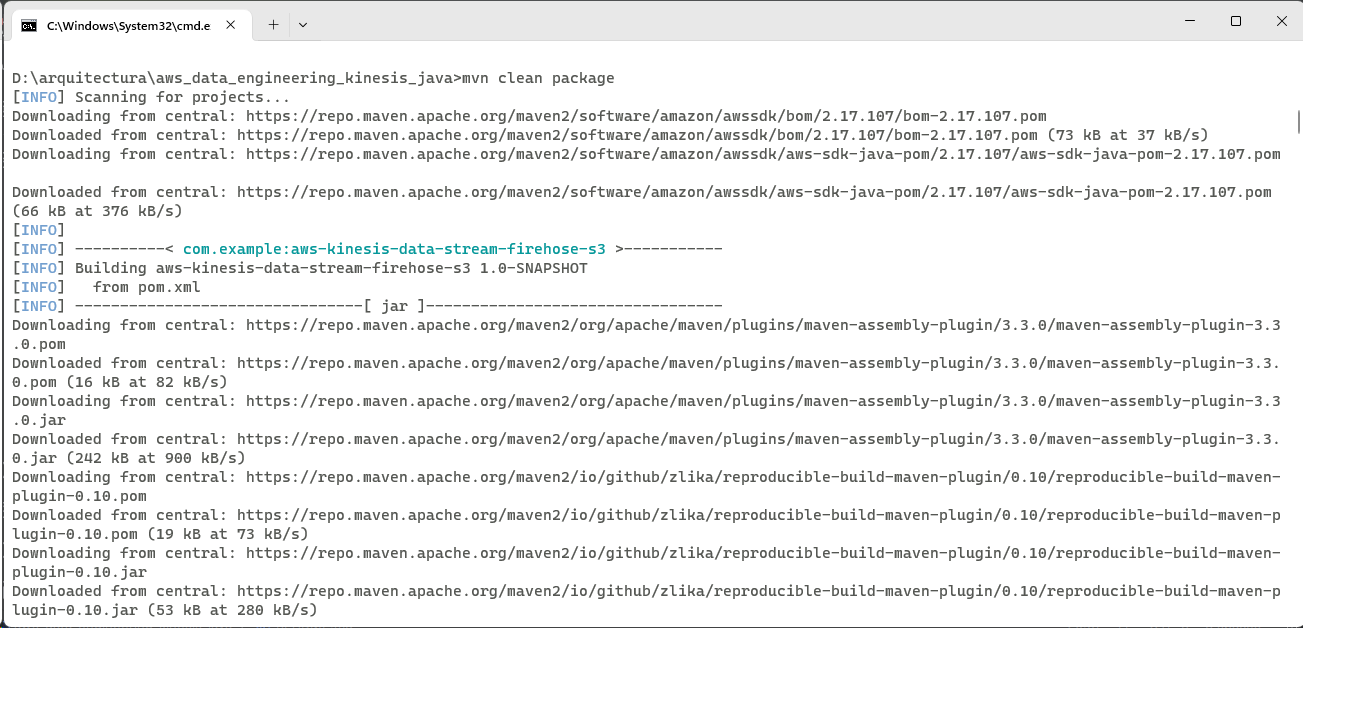
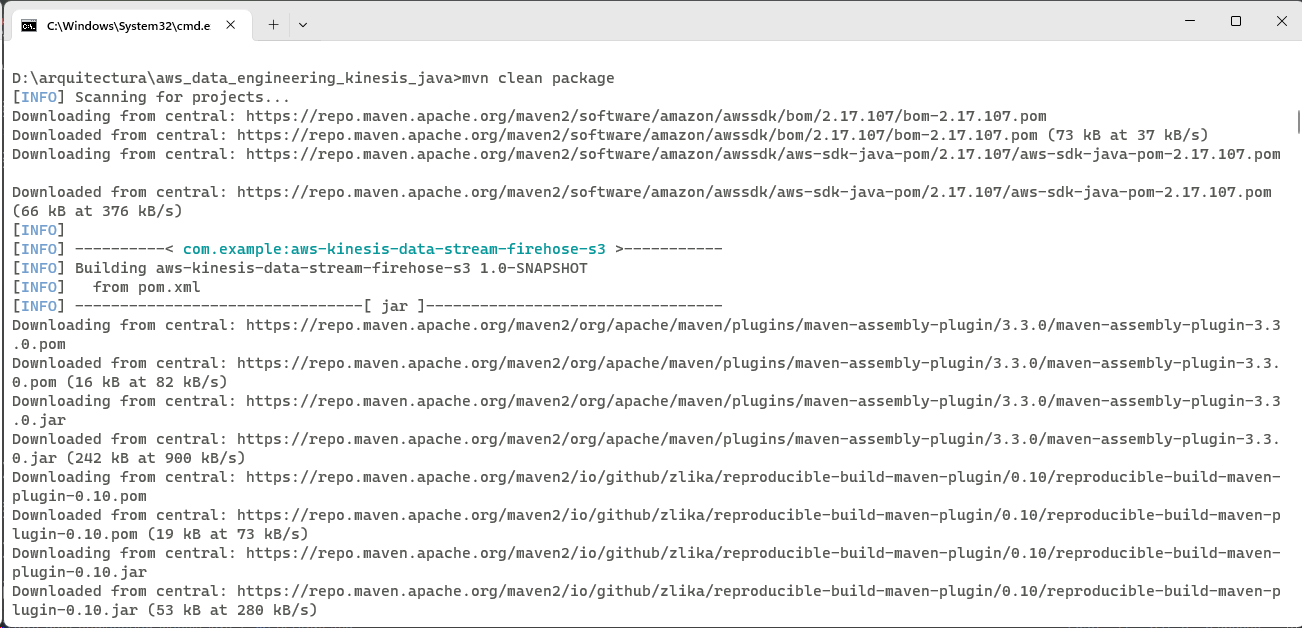
Data Engineering

Changed region(s): [[0.0, 0.0908, 1.0, 1.0], [0.0, 0.0, 0.2151, 0.0605]]

diff --git a/README.md b/README.md
@@ -21,7 +21,7 @@ Important: esta aplicación utiliza varios servicios de AWS y hay costos asociad
     ``` 
     mvn clean package
     ```
-   <img src="maven.png" alt="maven" width="50%"/>
+   <img src="maven.png" alt="maven" width="65%"/>
 
 1. Crear un bucket S3 donde el código fuente estará almacenado
     ```
@@ -31,15 +31,15 @@ Important: esta aplicación utiliza varios servicios de AWS y hay costos asociad
     ```
     aws s3 cp target/sourceCode.zip s3://arquitectopaul123
     ```
-   <img src="maven3.png" alt="maven3" width="50%"/>
+   <img src="maven3.png" alt="maven3" width="65%"/>
 
 1. Desplegar la pila CloudFormation
     ```
     sam deploy --s3-bucket arquitectopaul123 --stack-name kinesis-pattern --capabilities CAPABILITY_IAM
     ```
-   <img src="sam.png" alt="sam" width="50%"/>
+   <img src="sam.png" alt="sam" width="65%"/>
    
-   <img src="sam2.png" alt="sam2" width="50%"/>
+   <img src="sam2.png" alt="sam2" width="65%"/>
 
 ## Funcionamiento
 
@@ -52,22 +52,22 @@ Colocar un nuevo registro en Kinesis Data Streams
 aws kinesis put-record --stream-name kds-data --data sampledatarecord --partition-key samplepartitionkey
 ```
 
-   <img src="kinesis.png" alt="kinesis" width="50%"/>
+   <img src="kinesis.png" alt="kinesis" width="65%"/>
 
 Listar los objetos S3
 ```
 aws s3 ls s3://arquitectopaul123 --recursive --human-readable --summarize
 ```
-   <img src="s3.png" alt="s3" width="50%"/>
+   <img src="S3.png" alt="s3" width="65%"/>
 
 ## Cleanup
 
 ```
 aws cloudformation delete-stack --stack-name kds-pattern
 
-aws s3 rm s3://rtgvhgc8279238sdcd --recursive
+aws s3 rm s3://arquitectopaul123 --recursive
 
-aws s3 rb s3://rtgvhgc8279238sdcd
+aws s3 rb s3://arquitectopaul123
 ```
 ----
 
